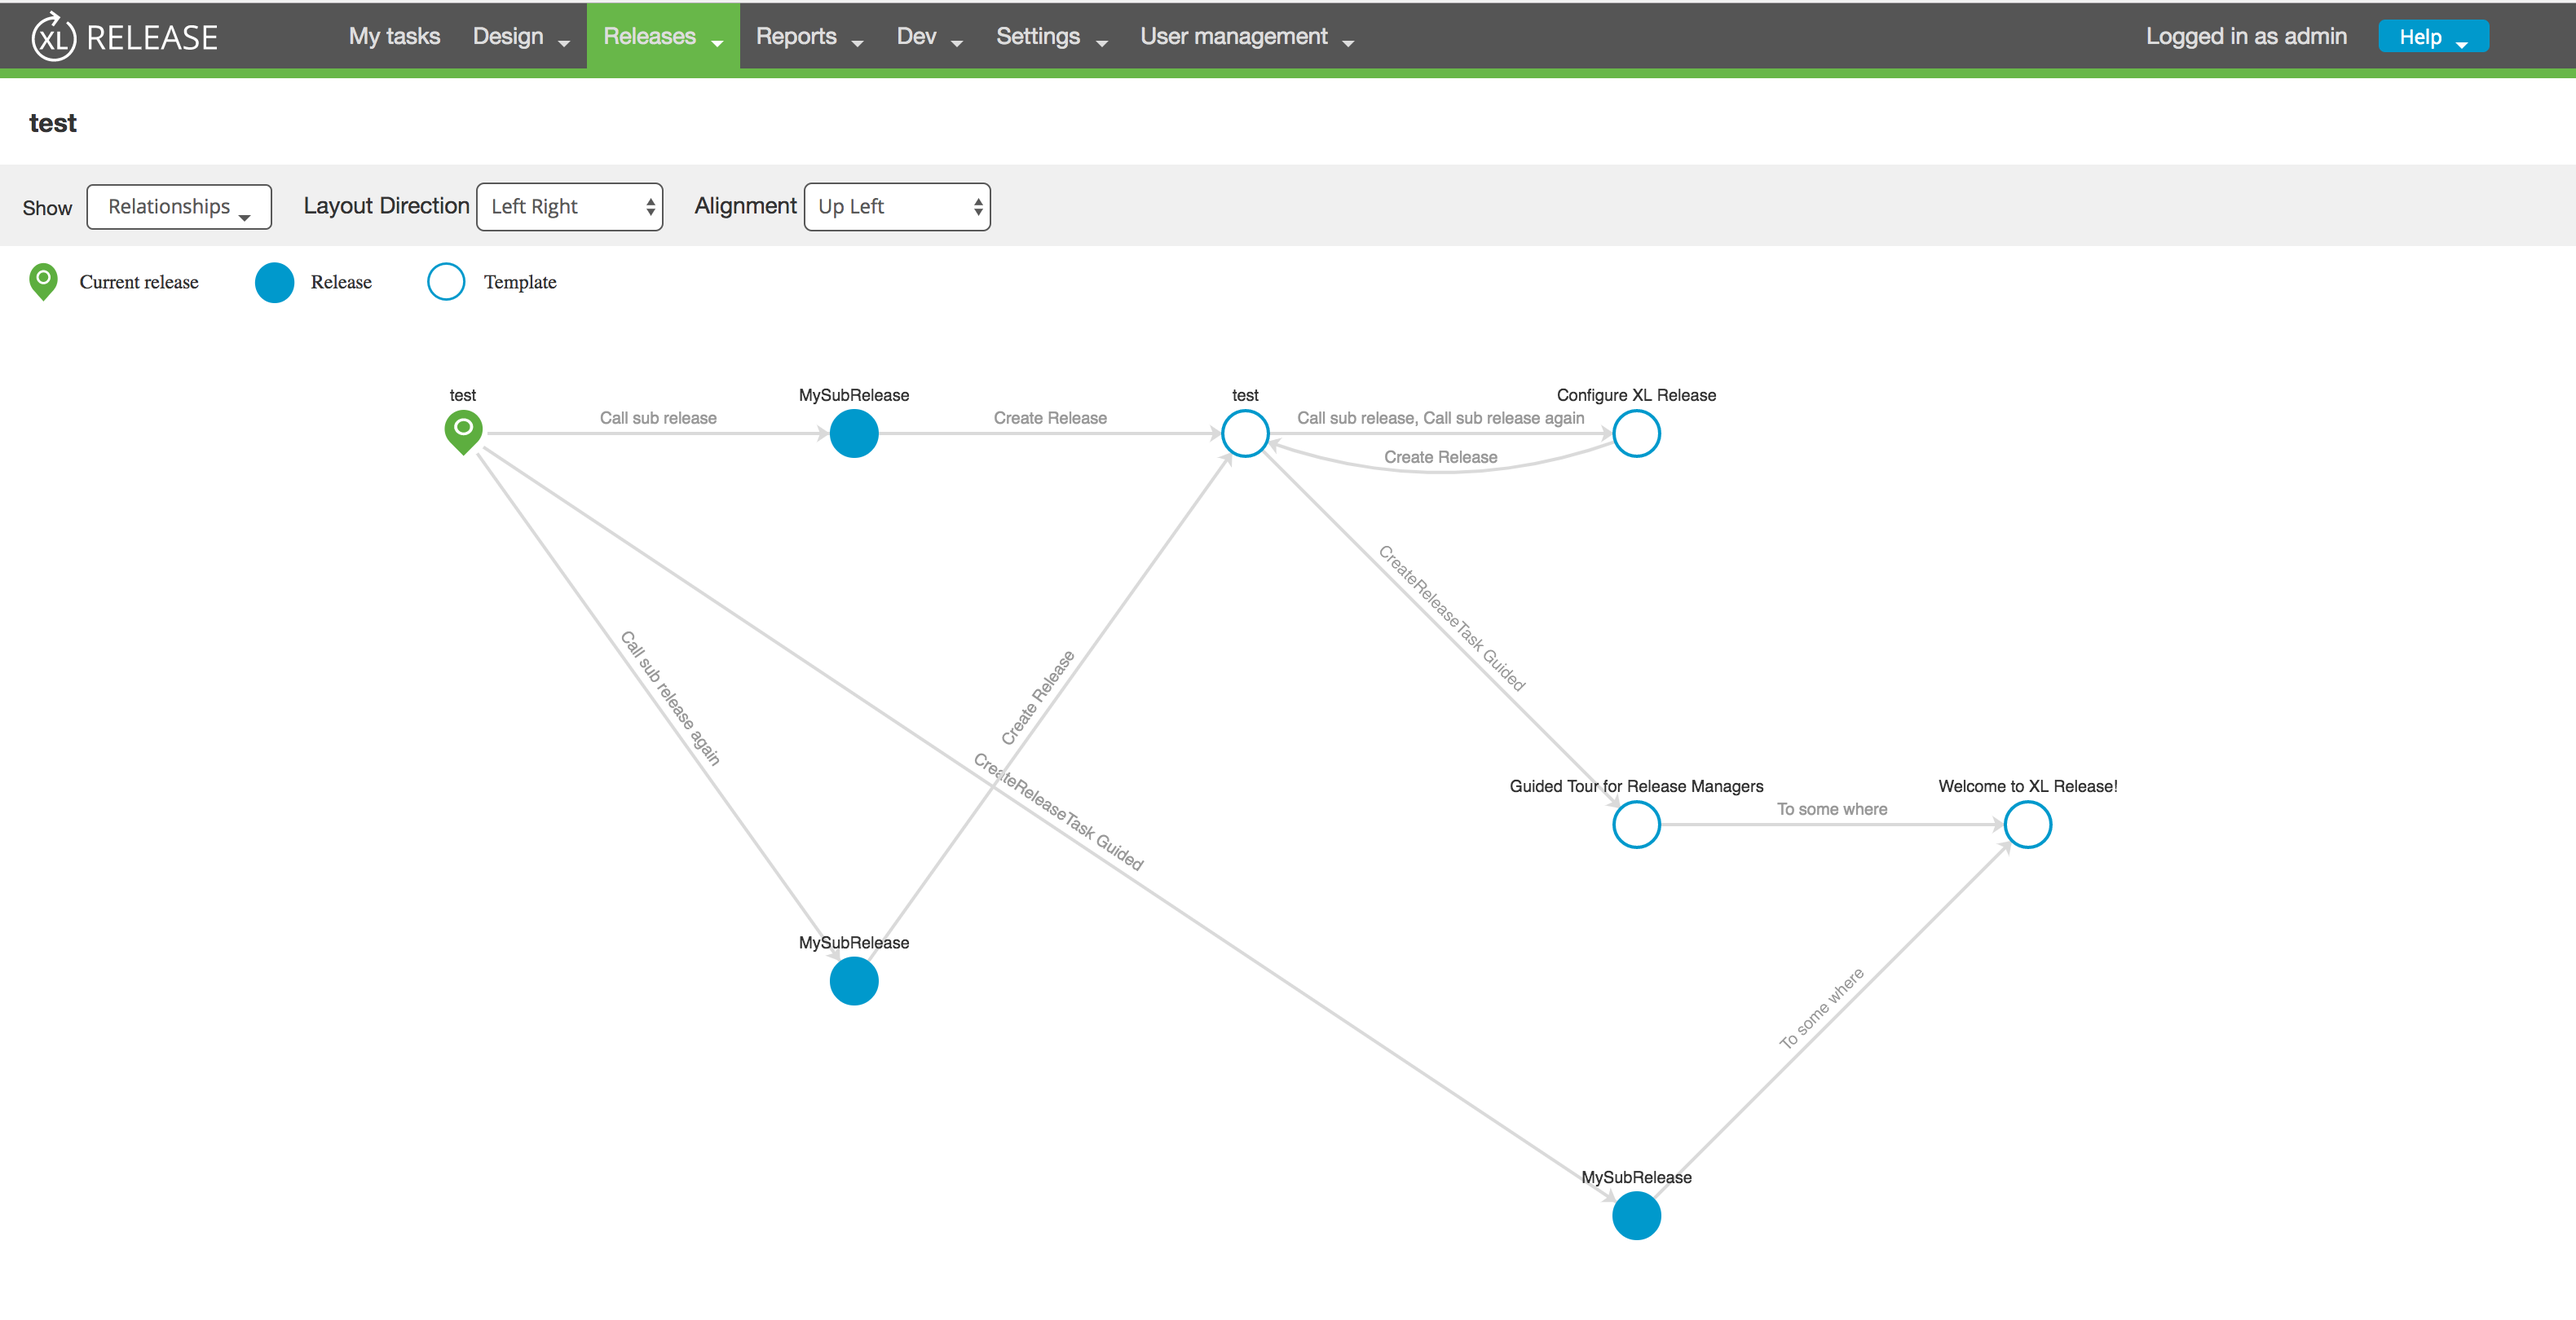
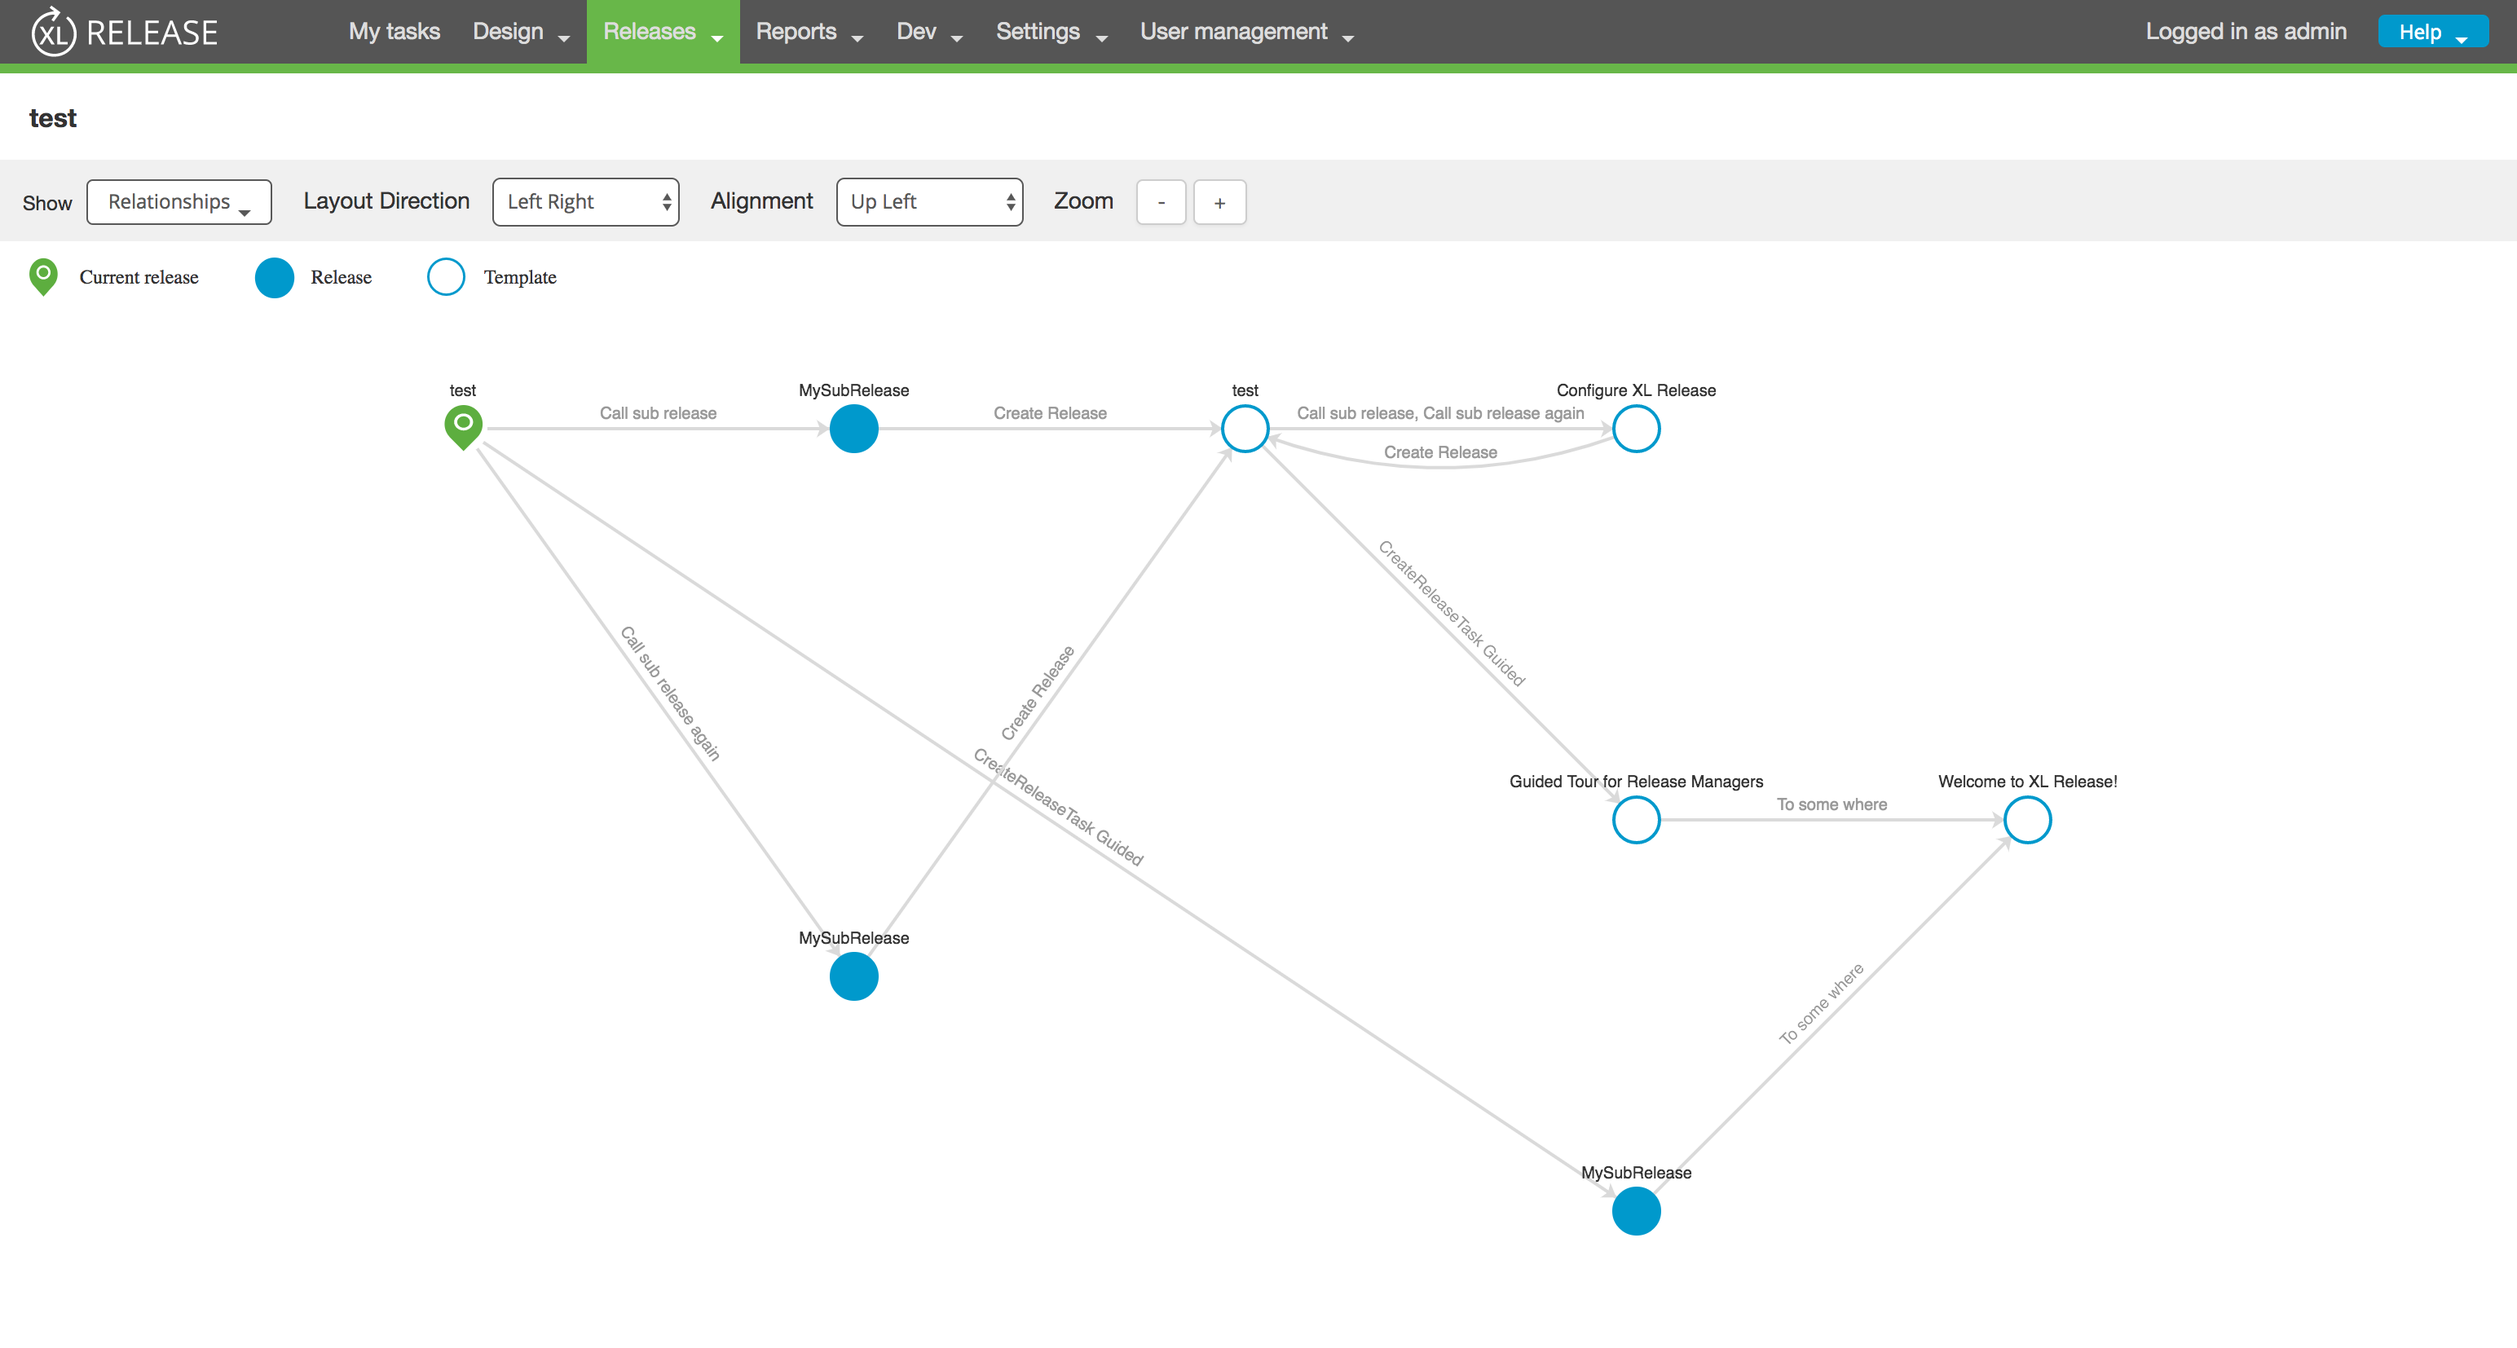
Added ability to zoom using toolbar controls.

diff --git a/src/main/app/index.html b/src/main/app/index.html
@@ -13,7 +13,9 @@
                 <option value="UL">Up Left</option>
                 <option value="UR">Up Right</option>
             </select>
-            
+            <span class="relationship-toolbar-label">Zoom </span>
+            <button class="btn btn-flat" ng-click="$ctrl.zoomIn()">-</button>
+            <button class="btn btn-flat" ng-click="$ctrl.zoomOut()">+</button>
         </div>
     </div>
     <div class="content-under-header">

diff --git a/src/main/app/relationships/graph.controller.js b/src/main/app/relationships/graph.controller.js
@@ -28,6 +28,13 @@ export default class GraphController {
         };
     }
 
+    zoomIn() {
+        this.chartObj._chartsViews[0]._controller.trigger('zoom', 1/1.1, 750, 300);
+    }
+
+    zoomOut() {
+        this.chartObj._chartsViews[0]._controller.trigger('zoom', 1.1, 750, 300);
+    }
 
     layoutChanged() {
         this.$window.sessionStorage.setItem("relationships_layout_direction", this.layoutDirection);

diff --git a/README.md b/README.md
@@ -10,10 +10,13 @@ with the ability to visualize and navigate the relationships amongst pipelines.
   
 ## Features ##
 
-* Navigate to target release/template with double click.
-* Visualize releases, templates and their design, runtime relationship.
-* Automatic layout arrangement.
-* Drag and drop layout arrangement.
+* Visualize release and template relationships in their design and runtime states.
+* Navigate to target release or template with double click.
+* Zoom with mouse wheel or toolbar controls.
+* Layout
+    * Automatic (Direction and Alignment)
+    * Manual (Drag and Drop node)
+
 
 ## Requirements ##
 
